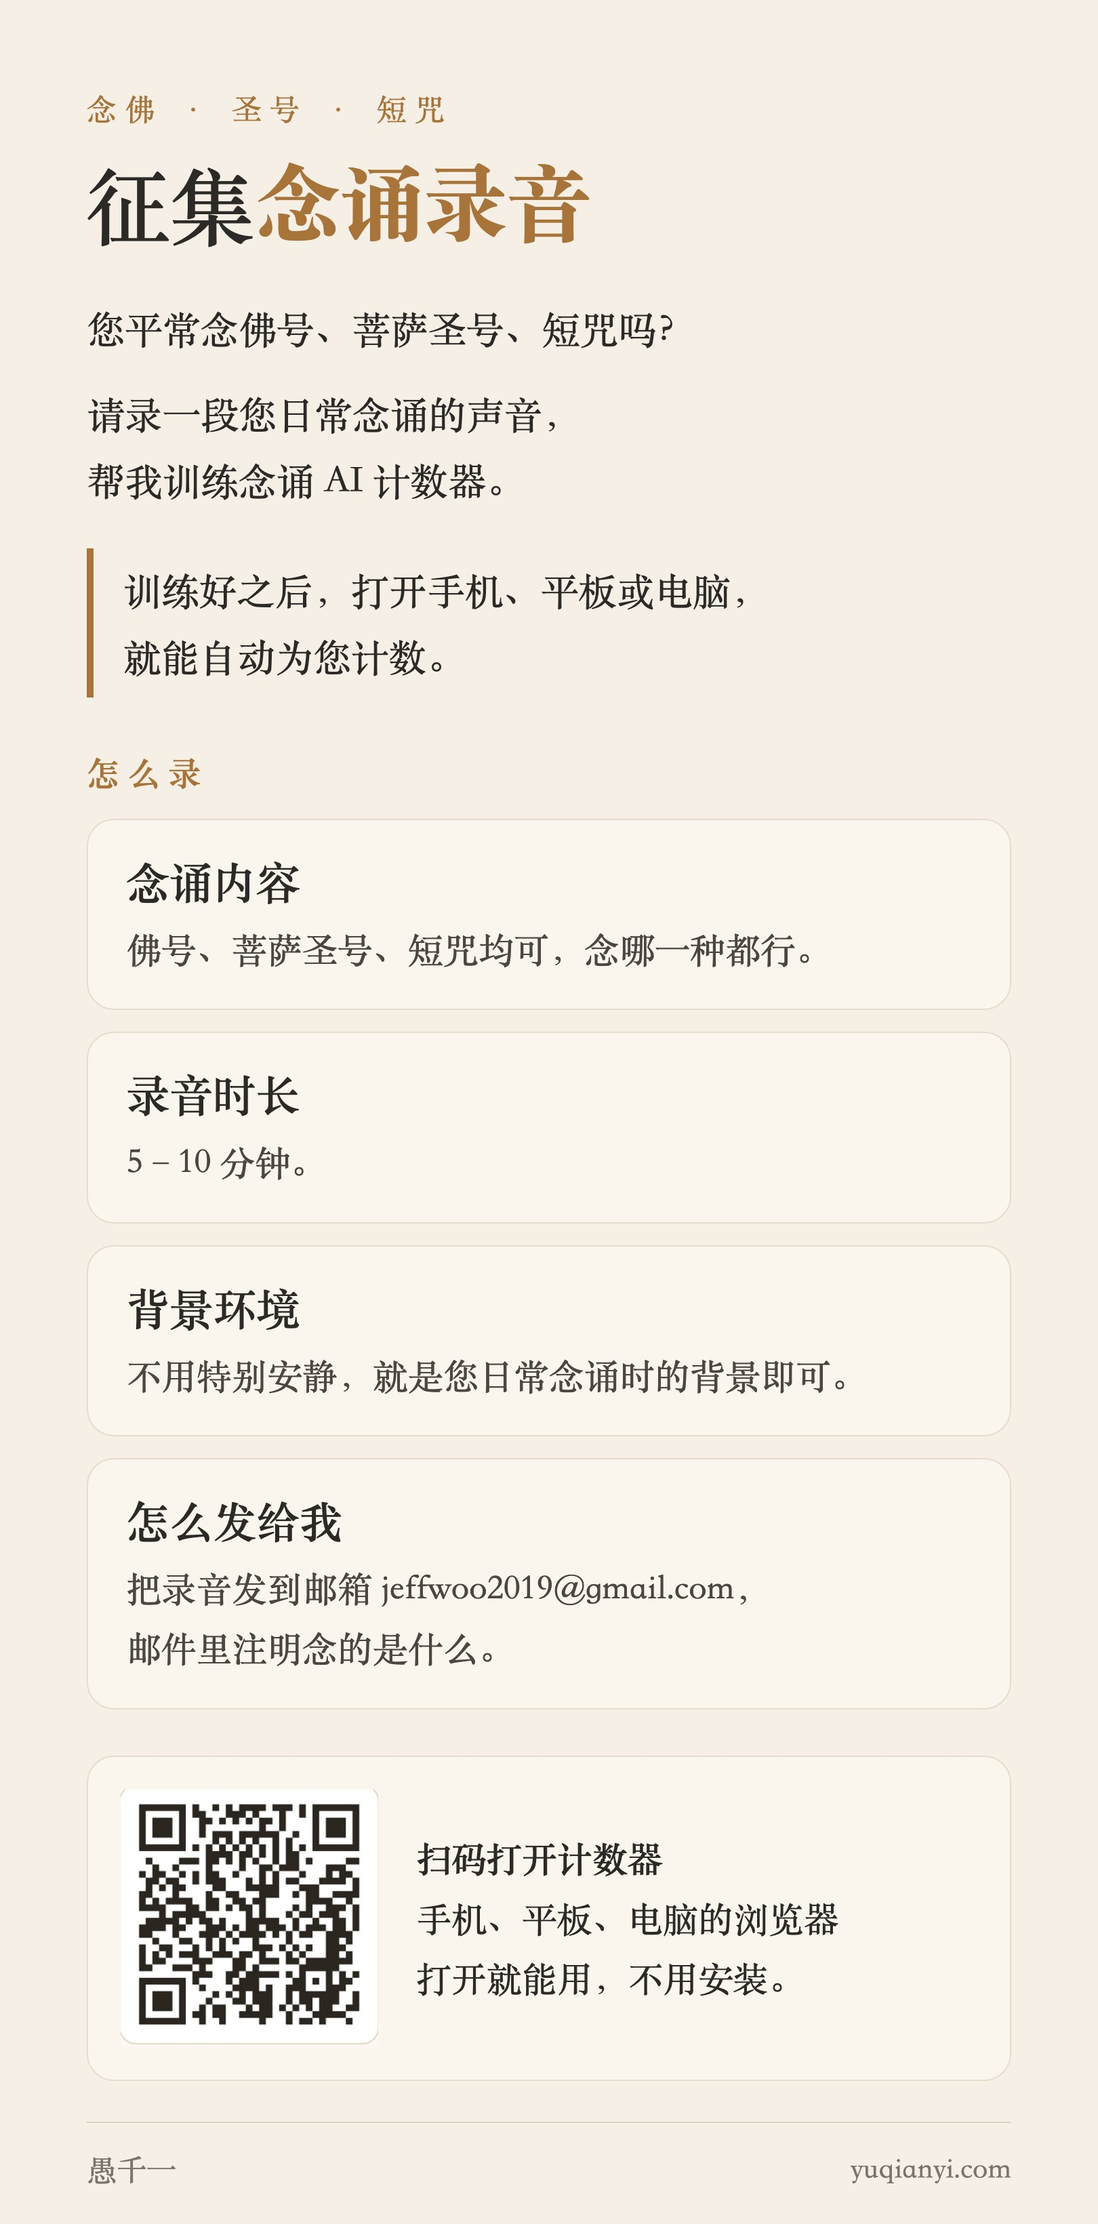
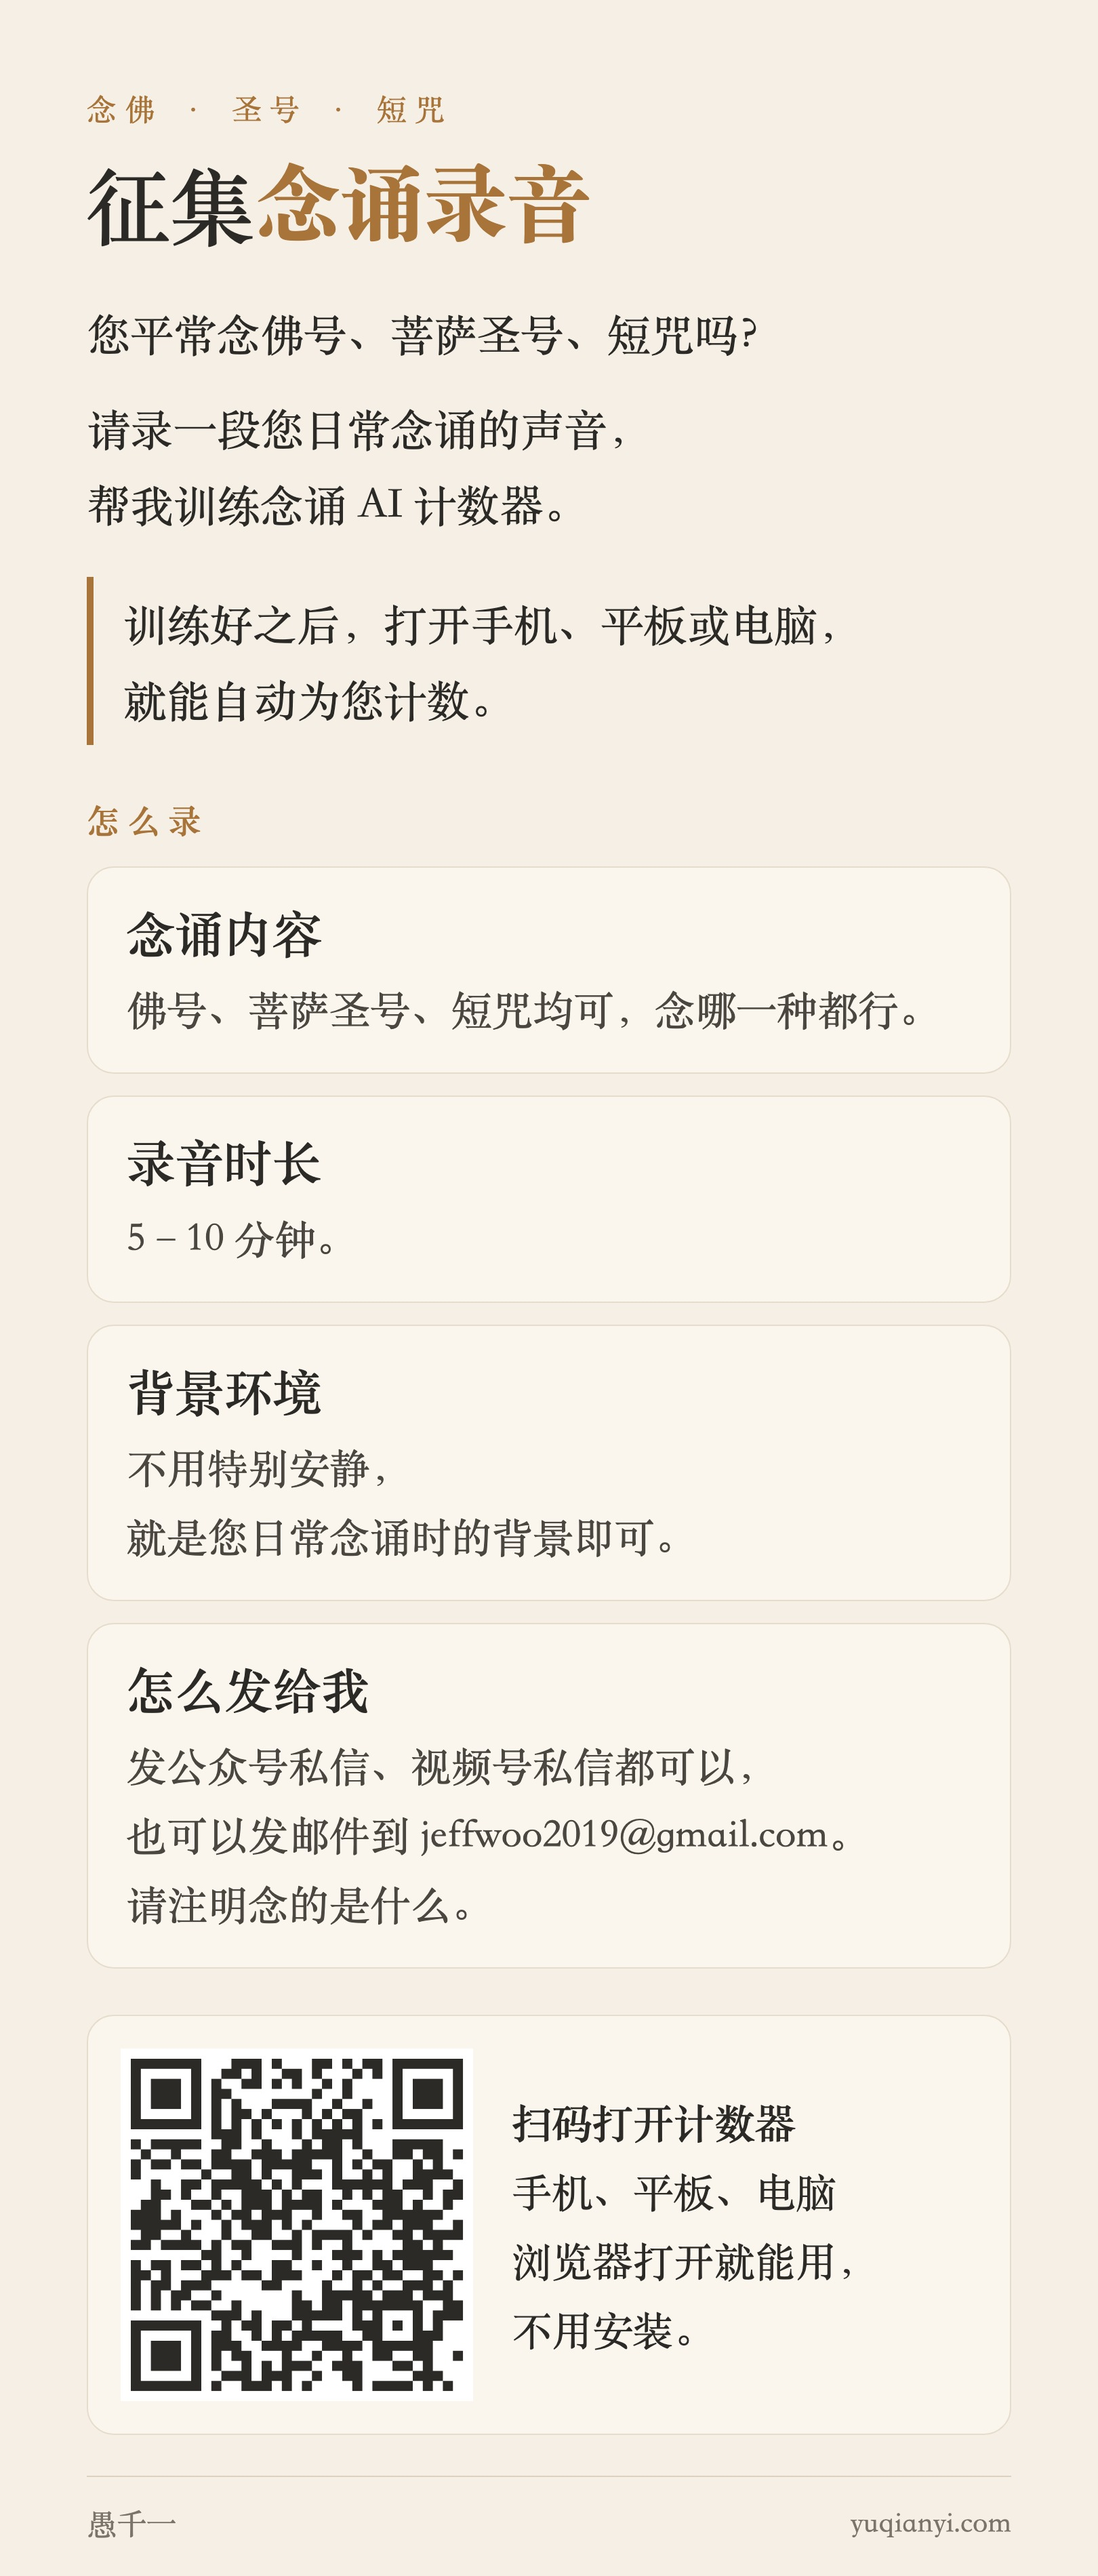
征集念诵录音：海报字号放大、二维码改为清晰版；加上公众号/视频号私信的投稿方式

diff --git a/_posts/2026-10-04-chant-recording-call-tietu.md b/_posts/2026-10-04-chant-recording-call-tietu.md
@@ -21,6 +21,6 @@ tags:
 
 录音 5-10 分钟即可。不用特别安静，就是您日常念诵时的背景。
 
-把录音发到邮箱 jeffwoo2019@gmail.com，邮件里注明念的是什么。
+录音可以发公众号私信、视频号私信，也可以发邮件到 jeffwoo2019@gmail.com，都可以。请注明念的是什么。
 
 长按图片保存，扫码可打开计数器。
